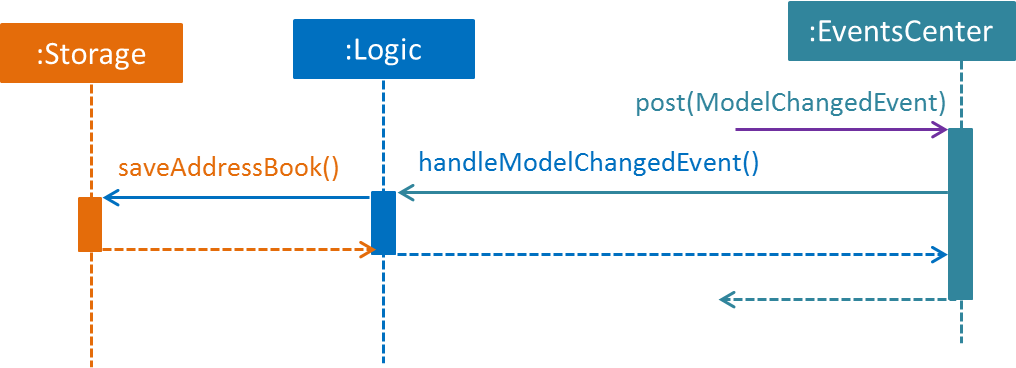
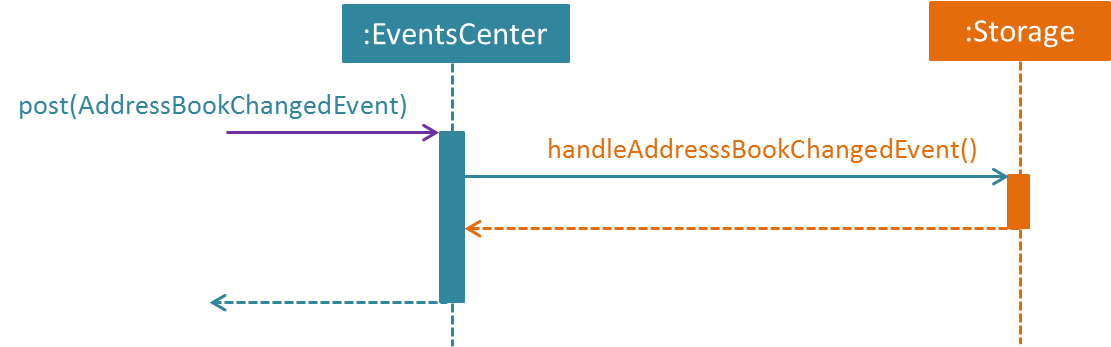
Move AddressBook change event handling to Storage

diff --git a/src/main/java/seedu/address/logic/LogicManager.java b/src/main/java/seedu/address/logic/LogicManager.java
@@ -1,11 +1,8 @@
 package seedu.address.logic;
 
-import com.google.common.eventbus.Subscribe;
 import javafx.collections.ObservableList;
 import seedu.address.commons.core.ComponentManager;
 import seedu.address.commons.core.LogsCenter;
-import seedu.address.commons.events.model.ModelChangedEvent;
-import seedu.address.commons.events.storage.DataSavingExceptionEvent;
 import seedu.address.logic.commands.Command;
 import seedu.address.logic.commands.CommandResult;
 import seedu.address.logic.parser.Parser;
@@ -13,7 +10,6 @@ import seedu.address.model.Model;
 import seedu.address.model.person.ReadOnlyPerson;
 import seedu.address.storage.Storage;
 
-import java.io.IOException;
 import java.util.logging.Logger;
 
 /**
@@ -38,19 +34,7 @@ public class LogicManager extends ComponentManager implements Logic {
         return command.execute();
     }
 
-    /**
-     * Creates the file if it is missing before saving.
-     * Raises {@link DataSavingExceptionEvent} if there was an error during saving
-     */
-    @Subscribe
-    public void handleModelChangedEvent(ModelChangedEvent mce) {
-        logger.info("Local data changed, saving to primary data file");
-        try {
-            storage.saveAddressBook(mce.data);
-        } catch (IOException e) {
-            raise(new DataSavingExceptionEvent(e));
-        }
-    }
+
 
     @Override
     public ObservableList<ReadOnlyPerson> getFilteredPersonList() {

diff --git a/src/main/java/seedu/address/storage/StorageManager.java b/src/main/java/seedu/address/storage/StorageManager.java
@@ -1,8 +1,10 @@
 package seedu.address.storage;
 
+import com.google.common.eventbus.Subscribe;
 import seedu.address.commons.core.ComponentManager;
-import seedu.address.commons.core.Config;
 import seedu.address.commons.core.LogsCenter;
+import seedu.address.commons.events.model.AddressBookChangedEvent;
+import seedu.address.commons.events.storage.DataSavingExceptionEvent;
 import seedu.address.commons.exceptions.DataConversionException;
 import seedu.address.model.ReadOnlyAddressBook;
 import seedu.address.model.UserPrefs;
@@ -63,6 +65,18 @@ public class StorageManager extends ComponentManager implements Storage {
     @Override
     public void saveAddressBook(ReadOnlyAddressBook addressBook) throws IOException {
         addressBookStorage.saveAddressBook(addressBook, addressBookStorage.getAddressBookFilePath());
+    }
+
+
+    @Override
+    @Subscribe
+    public void handleAddressBookChangedEvent(AddressBookChangedEvent mce) {
+        logger.info("Local data changed, saving to primary data file");
+        try {
+            saveAddressBook(mce.data);
+        } catch (IOException e) {
+            raise(new DataSavingExceptionEvent(e));
+        }
     }
 
 }

diff --git a/src/main/java/seedu/address/storage/Storage.java b/src/main/java/seedu/address/storage/Storage.java
@@ -1,5 +1,7 @@
 package seedu.address.storage;
 
+import seedu.address.commons.events.model.AddressBookChangedEvent;
+import seedu.address.commons.events.storage.DataSavingExceptionEvent;
 import seedu.address.commons.exceptions.DataConversionException;
 import seedu.address.model.ReadOnlyAddressBook;
 import seedu.address.model.UserPrefs;
@@ -29,4 +31,11 @@ public interface Storage extends AddressBookStorage, UserPrefsStorage {
 
     @Override
     void saveAddressBook(ReadOnlyAddressBook addressBook) throws IOException;
+
+    /**
+     * Saves the current version of the Address Book to the hard disk.
+     *   Creates the data file if it is missing.
+     * Raises {@link DataSavingExceptionEvent} if there was an error during saving.
+     */
+    public void handleAddressBookChangedEvent(AddressBookChangedEvent mce);
 }

diff --git a/src/main/java/seedu/address/model/ModelManager.java b/src/main/java/seedu/address/model/ModelManager.java
@@ -4,7 +4,7 @@ import javafx.collections.transformation.FilteredList;
 import seedu.address.commons.core.LogsCenter;
 import seedu.address.commons.core.UnmodifiableObservableList;
 import seedu.address.commons.util.StringUtil;
-import seedu.address.commons.events.model.ModelChangedEvent;
+import seedu.address.commons.events.model.AddressBookChangedEvent;
 import seedu.address.commons.core.ComponentManager;
 import seedu.address.model.person.Person;
 import seedu.address.model.person.ReadOnlyPerson;
@@ -64,7 +64,7 @@ public class ModelManager extends ComponentManager implements Model {
 
     /** Raises an event to indicate the model has changed */
     private void indicateModelChanged() {
-        raise(new ModelChangedEvent(addressBook));
+        raise(new AddressBookChangedEvent(addressBook));
     }
 
     @Override

diff --git a/src/test/java/seedu/address/logic/LogicManagerTest.java b/src/test/java/seedu/address/logic/LogicManagerTest.java
@@ -10,7 +10,7 @@ import seedu.address.commons.core.EventsCenter;
 import seedu.address.logic.commands.*;
 import seedu.address.commons.events.controller.JumpToListRequestEvent;
 import seedu.address.commons.events.controller.ShowHelpEvent;
-import seedu.address.commons.events.model.ModelChangedEvent;
+import seedu.address.commons.events.model.AddressBookChangedEvent;
 import seedu.address.model.AddressBook;
 import seedu.address.model.Model;
 import seedu.address.model.ModelManager;
@@ -46,7 +46,7 @@ public class LogicManagerTest {
     private int targetedJumpIndex;
 
     @Subscribe
-    private void handleLocalModelChangedEvent(ModelChangedEvent lmce) {
+    private void handleLocalModelChangedEvent(AddressBookChangedEvent lmce) {
         latestSavedAddressBook = new AddressBook(lmce.data);
     }
 

diff --git a/src/main/java/seedu/address/commons/events/model/AddressBookChangedEvent.java b/src/main/java/seedu/address/commons/events/model/AddressBookChangedEvent.java
@@ -3,12 +3,12 @@ package seedu.address.commons.events.model;
 import seedu.address.commons.events.BaseEvent;
 import seedu.address.model.ReadOnlyAddressBook;
 
-/** Indicates data in the model has changed*/
-public class ModelChangedEvent extends BaseEvent {
+/** Indicates the AddressBook in the model has changed*/
+public class AddressBookChangedEvent extends BaseEvent {
 
     public final ReadOnlyAddressBook data;
 
-    public ModelChangedEvent(ReadOnlyAddressBook data){
+    public AddressBookChangedEvent(ReadOnlyAddressBook data){
         this.data = data;
     }
 

diff --git a/src/main/java/seedu/address/logic/Logic.java b/src/main/java/seedu/address/logic/Logic.java
@@ -17,4 +17,5 @@ public interface Logic {
 
     /** Returns the filtered list of persons */
     ObservableList<ReadOnlyPerson> getFilteredPersonList();
+
 }
